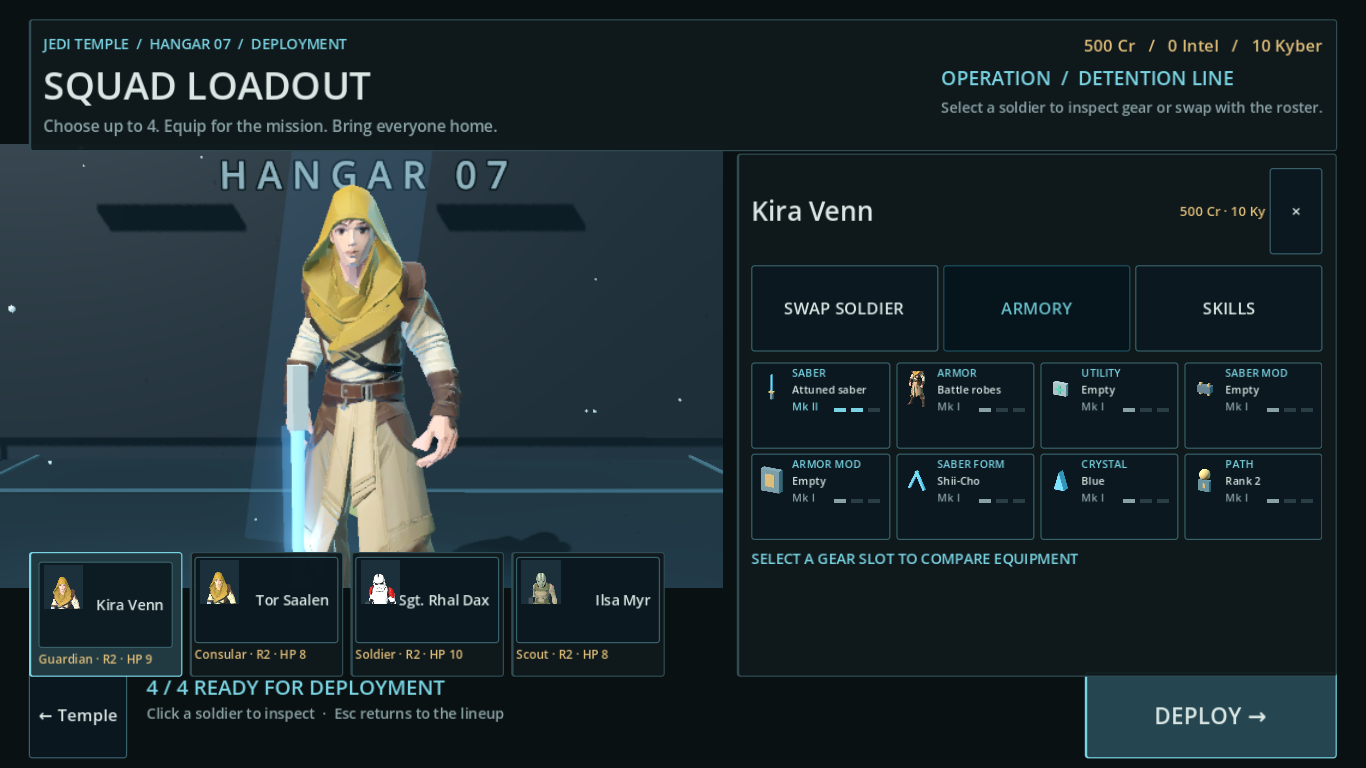
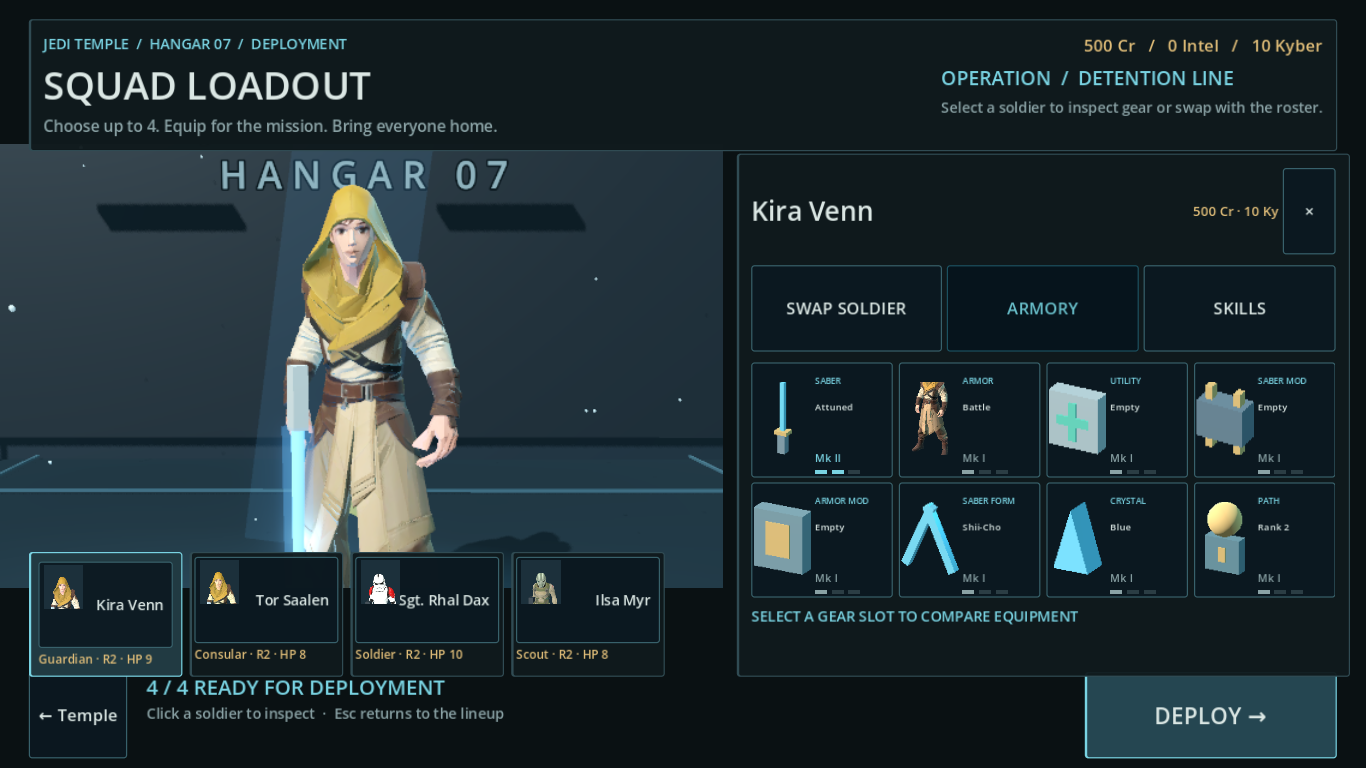
Fix armory slot clipping and enlarge visible gear art

diff --git a/docs/godot/w13/armory/REPORT.md b/docs/godot/w13/armory/REPORT.md
@@ -3,7 +3,7 @@
 ## Player-visible changes
 
 - Every loadout slot now has a baked gear image. Armor images are cropped renders of the existing Jedi and trooper GLBs; saber, blaster, kit, modules, crystal, form and path use a Godot SubViewport bake of the gear shapes already represented by the game. The PNGs load as ordinary textures, so no viewport renders at runtime.
-- Slot names fit at phone and desktop sizes. The form tile shows the full **Shii-Cho** name; its tooltip retains **Shii-Cho (Form I)**. Each card shows a readable Mk label and three tier pips. Mk II and III get stronger cyan and gold colors.
+- Slot cards are taller. Transparent image padding is cropped at display time, leaving visible gear art 51 px high on phone and 61 px on desktop. Both phone rows and their Mk labels and three tier pips fit on screen. The form tile still shows **Shii-Cho**, with **Shii-Cho (Form I)** in its tooltip. Long saber and robe names are shortened on the cards; the full names remain in their tooltips. Mk II and III get stronger cyan and gold colors.
 - The inspected hero has a warm key, cyan rim and floor pool on Medium/High. Low keeps its prior light count and post settings.
 - Title, graphics settings, research and forge now use the same dark translucent panel, thin accent border and button states as the armory. The shared style helper only applies to these screens.
 
@@ -21,13 +21,13 @@ Also: [phone upgrade picker](../../shots/wave13-armory-after-phone-upgrade.png),
 | Capture | Draw calls | Rendered primitives / approximate triangles | FPS sample |
 | --- | ---: | ---: | ---: |
 | Low 844×390 | 77 | 22,279 | 23 |
-| High 844×390 | 113 | 41,086 | 64 |
-| High 1366×768 | 141 | 42,794 | 26 |
+| High 844×390 | 131 | 41,230 | 7 |
+| High 1366×768 | 157 | 42,774 | 3 |
 
 These are Godot frame monitors in an Xvfb window on this machine. The FPS values vary under concurrent tests and are **not a phone forecast**. Low's estimated frame rate from this sample is 23 fps in Xvfb; actual device profiling remains necessary. The Low scene adds zero lights, zero floor geometry and zero post effects compared with Wave 12. Static PNGs replace the previous SVG slot textures. No GLBs or gameplay settings changed.
 
 - Import: [final import log](import-final.log), exit 0.
-- New `armory13` suite: 92 checks, 0 failures; checks both sizes, all slot art and text bounds, Mk II/III markers, the showroom and Low light count.
+- `armory13` suite: 220 checks, 0 failures. The new global-rect assertion failed on all eight phone Mk labels with the old card layout (24 failures total including art size). It now checks each Mk label and pip inside its card after layout at both sizes, visible icon dimensions, cropped padding, and full phone-grid visibility.
 - Full [`./godot/test.sh`](test.log): exit 0; every suite reports 0 failures; 0 `SCRIPT ERROR` lines; Normal rescue 9/20, inside the required 9–11/20 band.
 - `git diff --check`: clean.
 

diff --git a/docs/godot/w13/armory/FIX.md b/docs/godot/w13/armory/FIX.md
@@ -1,0 +1,20 @@
+# Wave 13 armory fix (lane tw-w13-armory2)
+
+Same worktree, branch `w13/armory`, on top of b25ca75. Same rules and file lease as `/home/jess/projects/tw-w13/WAVE13.md` (armory lane). Commit locally only; never push. Do the work yourself, with no subagents.
+
+## Problems found in review of `docs/godot/shots/wave13-armory-after-phone.png` (844x390)
+1. **The Mk line is clipped on every slot card.** "Mk II" and "Mk I" and the tier pips are cut off at the bottom edge of the card, and only the top half of the text shows. This is exactly the gap the spec told this lane to fix. The `armory13` suite passed anyway, so its text-bounds check is not testing what is on screen.
+2. **The gear art is too small.** The icons are about 20 px on phone and about 24 px on desktop, while the panel has about 70 px of empty space below the slot grid on phone. Use that space:
+   - make the cards taller;
+   - make the icons at least 40 px tall on phone and 48 px on desktop;
+   - make sure the Mk label and its pips sit fully inside the card.
+
+## Output
+- Fix both problems at 844x390 and 1366x768. Keep 44 px touch targets and the "Shii-Cho" fix.
+- **Fix the `armory13` test** so it fails on the old clipping. It must check that each Mk label's global rect lies fully inside its card's global rect after layout, at both sizes. Then make it pass.
+- Recapture the after shots with the same names, overwriting them.
+- Run the full gate from WAVE13.md:
+  - headless import first;
+  - `./godot/test.sh` exits 0, with 0 SCRIPT ERROR lines, every suite at 0 failures, and Normal rescue at 9-11/20;
+  - `git diff --check` is clean.
+- Update REPORT.md. Commit.
